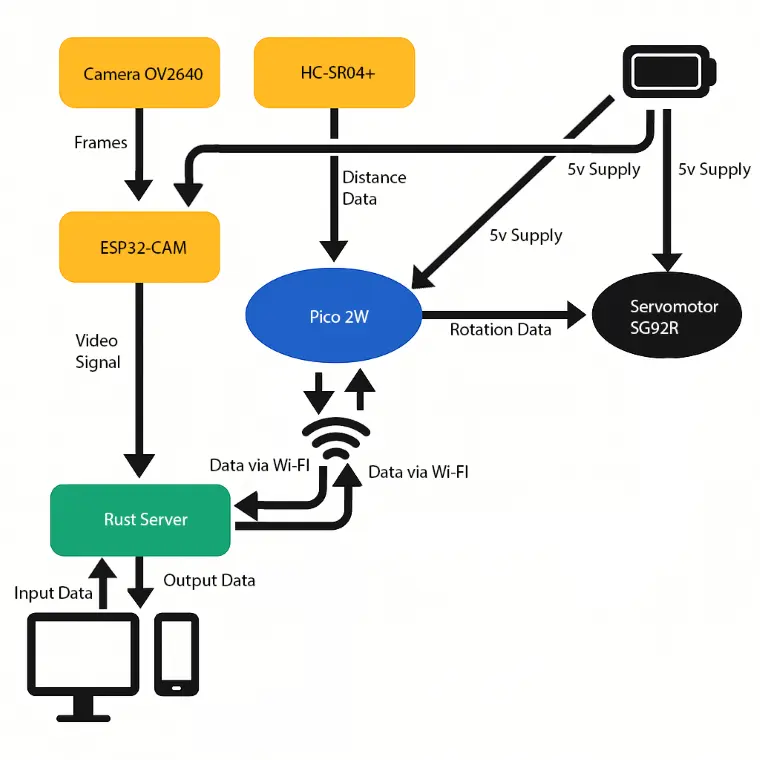
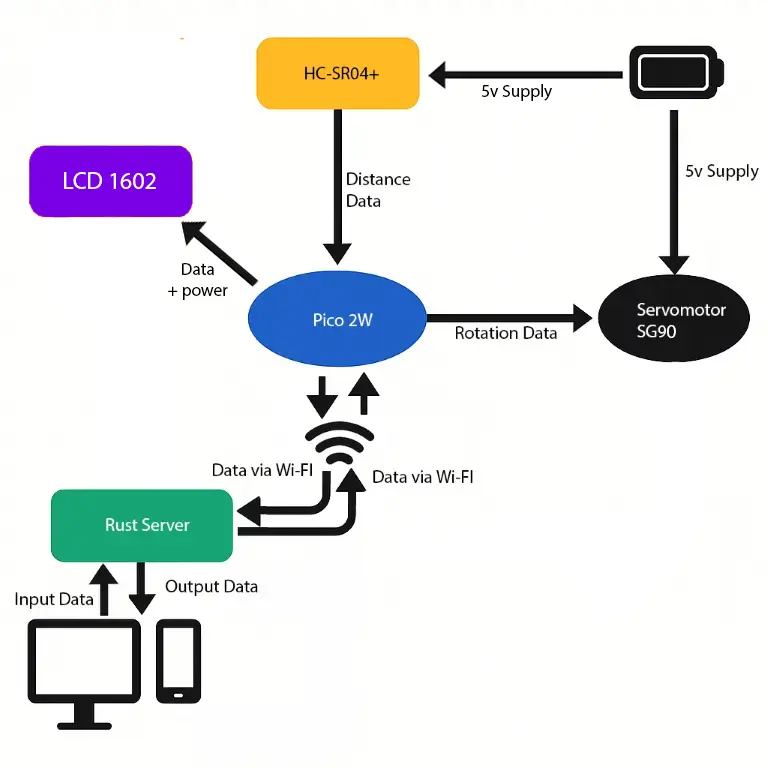
Updated documentation

diff --git a/website/versioned_docs/version-fils_en/project/2025/diana.juverdeanu/index.md b/website/versioned_docs/version-fils_en/project/2025/diana.juverdeanu/index.md
@@ -26,27 +26,27 @@ Raspberry Pico 2W: Acts as the central processing unit for the Pet Feeder, contr
 
 Ultrasonic Distance Sensor HC-SR04+: Detects when a pet is near the feeder.
 
-Servo Motor SG92R: Drives the mechanism to dispense the pet food.
+Servo Motor SG90: Drives the mechanism to dispense the pet food.
+
+LCD 1602: Displays a message when the object is detected.
 
 Power Supply: Provides the necessary power to all components at 5V.
  
-ESP32-CAM with OV2640: Used for capturing real time images.
-
 Wi-Fi Module: Facilitates communication with external devices.
 
 Connection Overview:
-
-The Raspberry Pi Pico 2W acts as the central controller of the Pet Feeder, directly interfacing with the ultrasonic distance sensor (HC-SR04+) and the SG92R servomotor. When the pet approaches the feeder, the sensor detects proximity, and the Pico 2W automatically activates the servo to dispense food. The Pico also runs a Wi-Fi access point and hosts a local web server, allowing the owner to manually trigger feeding from a browser interface. Capturing real time images is handled separately by the ESP32-CAM, which streams real-time footage to the owner. The SG92R servomotor is responsible for physically releasing food from a dedicated container, and is powered by a 5V supply. The ultrasonic distance sensor also helps ensure that food is only dispensed when the pet is actually near. This architecture ensures seamless interaction between sensing, actuation, and user control, enabling both automatic and manual feeding through reliable, Wi-Fi-based communication, with the Pico 2W orchestrating core functions while the ESP32-CAM provides independent visual monitoring.
-
+The Raspberry Pi Pico 2W acts as the central controller of the Pet Feeder, directly interfacing with the ultrasonic distance sensor (HC-SR04+), the SG90 servomotor, and an LCD1602 display. When the pet approaches the feeder, the sensor detects proximity, and the Pico 2W automatically activates the servo to dispense food. Simultaneously, the LCD1602 displays relevant status messages such as "Object detected" and the current measured distance, providing real-time feedback.
+The Pico also runs a Wi-Fi access point and hosts a local web server, allowing the owner to manually trigger feeding from a browser interface. The SG90 servomotor is responsible for physically releasing food from a dedicated container and is powered by a stable 5V supply. The ultrasonic distance sensor ensures that food is only dispensed when the pet is actually nearby, preventing unnecessary activation.
+This architecture ensures seamless interaction between sensing, actuation, and user control, enabling both automatic and manual feeding through reliable, Wi-Fi-based communication, with the Pico 2W orchestrating all core functions and the LCD1602 providing local visual feedback.
 
 ## Log
 
 <!-- write your progress here every week -->
 
 ### Week 5 - 11 May
-Bought hardware parts. Mounted the Raspberry Pi Pico 2W on breadboard. Wrote the code for the ultrasonic sensor (HC-SR04+). Tested PWM for SG92R servo motor. 
+Bought hardware parts. Mounted the Raspberry Pi Pico 2W on breadboard. Wrote the code for the ultrasonic sensor (HC-SR04+). Tested PWM for SG90 servo motor. 
 ### Week 12 - 18 May
-
+Wrote the code for the servomotor (SG90) and for the button. Tested the LCD.
 ### Week 19 - 25 May
 
 
@@ -54,11 +54,11 @@ Bought hardware parts. Mounted the Raspberry Pi Pico 2W on breadboard. Wrote the
 
 Pico 2W - brain of the Pet Feeder
 
-Servo Motor - delivers food
+Servo Motor  SG90 - delivers food
 
 Ultrasonic Distance Sensor HC-SR04+ - detects pet
 
-OV2640 - captures images
+LCD 1602 - displays a message 
 
 Power Supply - battery 5V
 
@@ -66,43 +66,36 @@ Power Supply - battery 5V
 ### Schematics
 
 ![Schematics](./assets/schema2v2.webp)
-
+![Schematics](./assets/hardware1.webp)
+![Schematics](./assets/hardware2.webp)
 
 ### Bill of Materials
-
 
 | Device | Usage | Price |
 |--------|--------|-------|
 | [Raspberry Pi Pico 2W](https://www.raspberrypi.com/documentation/microcontrollers/pico-series.html) | The microcontroller | [39 RON](https://www.optimusdigital.ro/ro/placi-raspberry-pi/13327-raspberry-pi-pico-2-w.html?gad_source=1&gbraid=0AAAAADv-p3BYbmtR0U4AB0vh3IzVtnhct&gclid=Cj0KCQjw2tHABhCiARIsANZzDWpC5jvEeQu1M-4aPsGLz0h_VUH-1oeoOhxuRTAuJpaxGS73j50IQKQaAkviEALw_wcB) |
-| [Servo Motor SG92R](https://www.optimusdigital.ro/ro/motoare-servomotoare/5706-servomotor-sg92r-9g-25-kgcm-48-v.html?search_query=servo&results=186) | The Servo Motor | [20 RON](https://www.optimusdigital.ro/ro/motoare-servomotoare/5706-servomotor-sg92r-9g-25-kgcm-48-v.html?search_query=servo&results=186) |
-| [Raspberry Pi Pico Debug probe](https://www.raspberrypi.com/documentation/microcontrollers/debug-probe.html) | Pico Debug Probe | [66 RON](https://www.optimusdigital.ro/en/accesories/12777-raspberry-pi-debug-probe.html?srsltid=AfmBOoriZm_41cmeLX01a0sdURol6ev5VejcC2lXUkNHwUqBqNHQ_65P) |
-| [HC-SR04+ Distance sensor](https://www.optimusdigital.ro/en/ultrasonic-sensors/2328-senzor-ultrasonic-de-distana-hc-sr04-compatibil-33-v-i-5-v.html?search_query=sr04&results=20) | Used to measure the distance from the pet to the device | [15 RON](https://www.optimusdigital.ro/en/ultrasonic-sensors/2328-senzor-ultrasonic-de-distana-hc-sr04-compatibil-33-v-i-5-v.html?search_query=sr04&results=20) |
-| [ESP32-CAM with OV2640 Camera](https://www.emag.ro/microcontroler-esp32-cam-cu-ov2640-wi-fi-si-camera-bluetooth-5v-2-e-009/pd/DSTDNLMBM/?utm_source=mobile%20app&utm_medium=ios&utm_campaign=share%20product) | Microcontroler ESP32-CAM with OV2640 | [47 RON](https://www.emag.ro/) |
-
+| [Servo Motor SG90]( https://www.optimusdigital.ro/ro/motoare-servomotoare/2261-micro-servo-motor-sg90-180.html?search_query=SG90&results=11) | The Servo Motor | [12 RON]( https://www.optimusdigital.ro/ro/motoare-servomotoare/2261-micro-servo-motor-sg90-180.html?search_query=SG90&results=11) |
+| [Raspberry Pi Pico Debug probe](https://www.raspberrypi.com/documentation/microcontrollers/debug-probe.html) | Pico Debug Probe | [66 RON]( https://www.optimusdigital.ro/ro/) |
+| [HC-SR04+ Distance sensor](https://www.optimusdigital.ro/en/ultrasonic-sensors/2328-senzor-ultrasonic-de-distana-hc-sr04-compatibil-33-v-i-5-v.html?search_query=sr04&results=20) | Used to measure the distance from the pet to the device | [15 RON]( https://www.optimusdigital.ro/ro/) |
+| [LCD 1602]( https://www.optimusdigital.ro/ro/optoelectronice-lcd-uri/2894-lcd-cu-interfata-i2c-si-backlight-albastru.html?search_query=0104110000003584&results=1) |LCD module that communicates via I2C interface and displays 2 rows of 16 characters each | [17 RON]( https://www.optimusdigital.ro/ro/) |
 
 ## Software
-
 | Library | Description | Usage |
 |---------|-------------|-------|
-| embassy | Async executor and HAL | Asynchronous framework for embedded Rust |
-| embassy-executor | Task executor | Runs your async tasks like HTTP server, distance monitor, button |
-| embassy-net | Networking stack | Enables static IP, Wi-Fi AP, TCP server on the Pico W |
-| embassy-rp | RP2040 HAL via Embassy | Access to GPIO, PWM, ADC, timers for Raspberry Pi Pico 2W |
-| embassy-time | Async time handling | Provides Timer:: after() and Instant:: now ( ) |
-| static_cell | Static memory allocation | Needed for safely creating global resources (Wi-Fi stack) |
-| defmt, defmt-rtt | Debugging and logging | For logging with low overhead in embedded systems |
-| panic-probe | Panic handling for no_std | Lightweight panic handler for debug output |
-| esp-idf-sys | ESP-IDF system bindings | Access to ESP32-CAM system internals (C functions) |
-| esp-idf-hal | Hardware Abstraction Layer for ESP32 | GPIOs, clocks, etc. on the ESP32 |
-| esp-idf-svc | High-level ESP32 services | Starts the HTTP stream server on ESP32-CAM |
-| log | Standard Rust logging | Logs messages from ESP32 camera logic |
-| camera_config | Custom module (in Rust) | get-camera_config() function to configure the OV2640 camera | 
+| embassy-executor  | Asynchronous runtime for embedded Rust | Runs the `main()` function as an async task and enables multitasking  |
+| embassy-rp  | Hardware Abstraction Layer (HAL) for Raspberry Pi Pico (RP2040)           |Configures PWM (servo), GPIO (button), I²C (LCD), and other peripherals |
+| embassy-time  | Async timing utilities (timers, delays) | Used for `Timer::after_secs()` and debounce delays |
+| hd44780-driver  | Driver for HD44780 LCD over I²C via PCF8574 expander | Initializes and writes messages to the 1602 LCD |
+| heapless  | Provides stack-allocated types like `String<32>` without heap allocation | Used to build display messages for the LCD without `std` |
+| fixed  | Fixed-point arithmetic types | Used to precisely set PWM frequency divider via `to_fixed()`  |
+| defmt  | Efficient logging framework for embedded devices | Displays debug/info messages via `info!` during runtime  |
+| defmt-rtt  | Sends `defmt` logs over RTT (Real-Time Transfer) via USB  | Streams logs to the host for debugging over USB |
+| panic-probe  | Panic handler that outputs the panic reason through `defmt`  | Captures and logs panics during runtime for debugging   |
+| core::fmt::Write  | Enables formatted string output to heapless `String`| Used with `write!(...)` macro to write to a `String<32>`  |
 
 
 ## Links
 
-<!-- Add a few links that inspired you and that you think you will use for your project -->
+1. [inspiration 1](https://youtu.be/bvon9nxhqHk?si=2qOuvlQmeptNkpEQ)
+2. [inspiration 2](https://youtu.be/vKdQXICO-r0?si=8dzN55QKdWMFFRC1)
 
-1. [link](https://example.com)
-2. [link](https://example3.com)
-...
